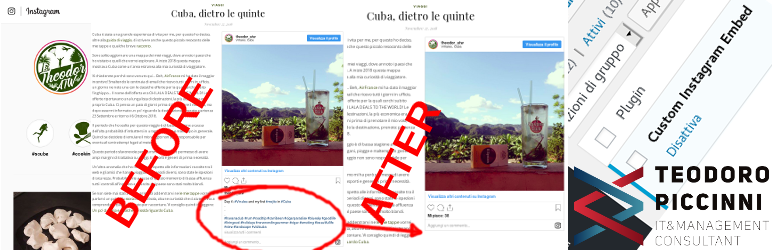
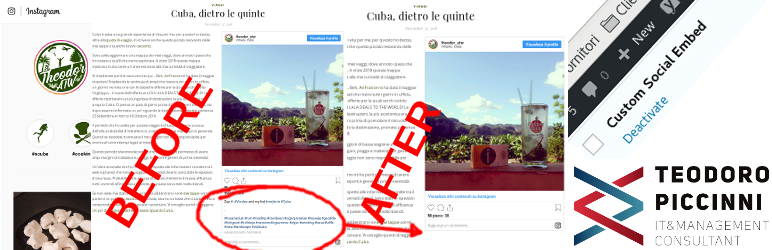
Align plugin to New Instagram/Facebook policies

diff --git a/custom-social-embed.php b/custom-social-embed.php
@@ -1,0 +1,34 @@
+<?php
+/**
+ * @package Custom_Social_Embed
+ * @version 1.0.0
+ */
+/*
+Plugin Name: Custom Social Embed
+Plugin URI: http://wordpress.org/plugins/custom-social-embed/
+Description: This WordPress plugin will help you in removing some frustrating description and comments on photos and videos embedded from Instagram social network. Custom Social Embed is developed by Teodoro PICCINNI, not officially approved or released by Instagram developers team.
+Author: Teodoro PICCINNI
+Version: 0.0.3
+Author URI: https://www.teodoropiccinni.com/
+*/
+
+// Default security WP check
+if ( ! defined( 'ABSPATH' ) ) {
+	exit;
+}
+
+// Process embedded Social contents
+function custom_social_embed($content) {
+	/** Customize post content from plugin settings */
+	if(strpos($content, 'instagr.am') !== false || strpos($content, 'instagram.com') !== false){ // if social embed
+	    $return = preg_replace("@data-instgrm-captioned@", "", $content); // remove caption class
+	    return $return;		
+    }
+	return $content;
+}
+
+
+// Now we set that function up to execute when the embed_handler_html and embed_oembed_html action is called.
+add_filter('embed_handler_html', 'custom_social_embed');
+add_filter('embed_oembed_html', 'custom_social_embed');
+

diff --git a/README.md b/README.md
@@ -1,4 +1,4 @@
-# custom-instagram-embed
-This [WordPress](https://wordpress.org) plugin will help you in removing some frustrating description and comments from embedded [Instagram](https://www.instagram.com/teodoropiccinni/) photos and videos.
+# custom-social-embed
+This [WordPress](https://wordpress.org) [plugin](https://wordpress.org/plugins/) will help you in removing some frustrating description and comments on photos and videos embedded from Instagram social network. Custom Social Embed is developed by [Teodoro PICCINNI](https://www.teodoropiccinni.com), not officially approved or released by Instagram developers team.
 
-Full Plugin explanation is available on [TeodoroPICCINNI.com](https://www.teodoropiccinni.com/en/works/wordpress/wordpress-plugins/custom-instagram-embed)
+Full Plugin explanations are available on [TeodoroPICCINNI.com](https://www.teodoropiccinni.com/en/welcome/works/wordpress/wordpress-plugins/custom-social-embed)
